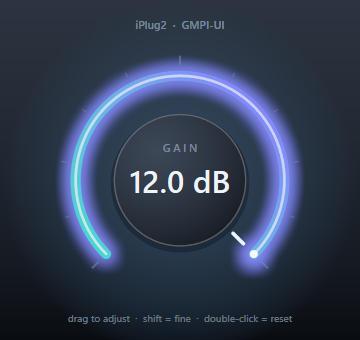
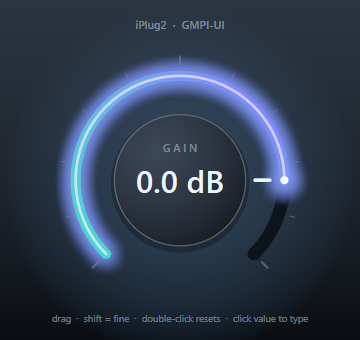
Type a value by clicking the readout
Clicking the number opens a native text field through GMPI-UI's
IDialogHost::createTextEdit. The view stays unit-agnostic: it hands the typed
string to the host, which parses it with IParam::StringToValue and pushes the
canonical formatting back, so "-6", "-6.5 dB" and nonsense all land somewhere
sane.

The edit callback is a member rather than heap-allocated - gmpi::sdk::
TextEditCallback is GMPI_REFCOUNT_NO_DELETE, so a shared_ptr to a new'd one
would leak.

diff --git a/src/GainView.h b/src/GainView.h
@@ -18,6 +18,10 @@ struct IKnobHost
   virtual void OnKnobGestureBegin() = 0;
   virtual void OnKnobValueChanged(double normalized) = 0;
   virtual void OnKnobGestureEnd() = 0;
+
+  // Typed into the readout, e.g. "-6.5 dB". The host owns the parsing, because
+  // it owns the units.
+  virtual void OnKnobTextEntered(const std::string& text) = 0;
 };
 
 namespace knob
@@ -51,6 +55,7 @@ struct Layout
   float arcRadius{};
   float bodyRadius{};
   float unit{}; // stroke widths and type sizes scale off this
+  Rect readoutRect{}; // drawn here, and clicked here to type a value
 
   explicit Layout(Rect b)
   {
@@ -61,8 +66,17 @@ struct Layout
     bodyRadius = arcRadius * 0.635f;
     unit = arcRadius / 104.0f;
     centre = {(b.left + b.right) * 0.5f, b.top + h * 0.53f};
+
+    const float halfWidth = bodyRadius * 0.98f;
+    readoutRect = {centre.x - halfWidth, centre.y - 22.0f * unit,
+                   centre.x + halfWidth, centre.y + 22.0f * unit};
   }
 };
+
+inline bool contains(Rect r, Point p)
+{
+  return p.x >= r.left && p.x < r.right && p.y >= r.top && p.y < r.bottom;
+}
 
 inline Point onCircle(Point centre, float radius, float degrees)
 {
@@ -96,21 +110,25 @@ public:
     mValue = std::clamp(normalized, 0.0, 1.0);
     mDisplay = display;
     mGlow.invalidate();
-
-    if (mDrawingHost)
-      mDrawingHost->invalidateRect(nullptr);
+    Invalidate();
   }
 
   // IDrawingClient / IInputClient (one override serves both)
   gmpi::ReturnCode setHost(gmpi::api::IUnknown* pHost) override
   {
+    // Any in-flight text edit refers to a window that is about to go away.
+    mTextEdit = {};
+    mEditing = false;
+
     mDrawingHost = {};
     mInputHost = {};
+    mDialogHost = {};
 
     if (pHost)
     {
       pHost->queryInterface(&gmpi::api::IDrawingHost::guid, mDrawingHost.put_void());
       pHost->queryInterface(&gmpi::api::IInputHost::guid, mInputHost.put_void());
+      pHost->queryInterface(&gmpi::api::IDialogHost::guid, mDialogHost.put_void());
     }
     return gmpi::ReturnCode::Ok;
   }
@@ -268,26 +286,39 @@ public:
         return format;
       };
 
-      const float halfWidth = layout.bodyRadius * 0.98f;
+      const Rect readoutRect = layout.readoutRect;
 
       auto label = centred(10.5f * unit, FontWeight::SemiBold);
       g.drawTextU("G A I N", label,
-                  {centre.x - halfWidth, centre.y - 42.0f * unit, centre.x + halfWidth, centre.y - 22.0f * unit},
+                  {readoutRect.left, centre.y - 42.0f * unit, readoutRect.right, readoutRect.top},
                   dimBrush);
 
-      auto readout = centred(31.0f * unit, FontWeight::SemiBold);
-      g.drawTextU(mDisplay, readout,
-                  {centre.x - halfWidth, centre.y - 22.0f * unit, centre.x + halfWidth, centre.y + 22.0f * unit},
-                  brightBrush);
+      // Hovering the readout tells you it is a text field.
+      if (mHoverReadout && !mEditing)
+      {
+        const RoundedRect field{readoutRect, 5.0f * unit, 5.0f * unit};
+        auto highlight = g.createSolidColorBrush(Color{1.0f, 1.0f, 1.0f, 0.09f});
+        g.fillRoundedRectangle(field, highlight);
+        auto outline = g.createSolidColorBrush(Color{1.0f, 1.0f, 1.0f, 0.16f});
+        g.drawRoundedRectangle(field, outline, 1.0f * unit);
+      }
+
+      // While the native edit box is up it covers this spot; drawing underneath
+      // it just shows through as a smudge on a partly-transparent field.
+      if (!mEditing)
+      {
+        auto readout = centred(31.0f * unit, FontWeight::SemiBold);
+        g.drawTextU(mDisplay, readout, readoutRect, brightBrush);
+      }
 
       auto title = centred(11.0f * unit, FontWeight::Medium);
       g.drawTextU("iPlug2  \xC2\xB7  GMPI-UI", title,
                   {mBounds.left, mBounds.top + 14.0f * unit, mBounds.right, mBounds.top + 34.0f * unit},
                   dimBrush);
 
-      auto hint = centred(10.0f * unit, FontWeight::Regular);
+      auto hint = centred(9.5f * unit, FontWeight::Regular);
       auto hintBrush = g.createSolidColorBrush(Color{textDim.r, textDim.g, textDim.b, 0.7f});
-      g.drawTextU("drag to adjust  \xC2\xB7  shift = fine  \xC2\xB7  double-click = reset", hint,
+      g.drawTextU("drag  \xC2\xB7  shift = fine  \xC2\xB7  double-click resets  \xC2\xB7  click value to type", hint,
                   {mBounds.left, mBounds.bottom - 32.0f * unit, mBounds.right, mBounds.bottom - 12.0f * unit},
                   hintBrush);
     }
@@ -296,12 +327,25 @@ public:
   }
 
   gmpi::ReturnCode hitTest(gmpi::drawing::Point, int32_t) override { return gmpi::ReturnCode::Ok; }
-  gmpi::ReturnCode setHover(bool) override { return gmpi::ReturnCode::Ok; }
+
+  gmpi::ReturnCode setHover(bool isMouseOverMe) override
+  {
+    if (!isMouseOverMe)
+      SetHoverReadout(false);
+
+    return gmpi::ReturnCode::Ok;
+  }
 
   gmpi::ReturnCode onPointerDown(gmpi::drawing::Point point, int32_t flags) override
   {
     if (0 == (flags & static_cast<int32_t>(gmpi::api::PointerFlags::FirstButton)))
       return gmpi::ReturnCode::Unhandled;
+
+    if (!mEditing && knob::contains(knob::Layout(mBounds).readoutRect, point))
+    {
+      BeginTextEdit();
+      return gmpi::ReturnCode::Handled;
+    }
 
     if (flags & static_cast<int32_t>(gmpi::api::PointerFlags::Double))
     {
@@ -325,7 +369,10 @@ public:
   gmpi::ReturnCode onPointerMove(gmpi::drawing::Point point, int32_t flags) override
   {
     if (!mDragging)
+    {
+      SetHoverReadout(!mEditing && knob::contains(knob::Layout(mBounds).readoutRect, point));
       return gmpi::ReturnCode::Unhandled;
+    }
 
     // Full-scale drag is roughly three knob diameters, so the feel stays the
     // same whatever size the editor is.
@@ -379,15 +426,78 @@ private:
   // 0 dB on a -60..+12 dB scale.
   static constexpr double kDefaultValue = 60.0 / 72.0;
 
+  void Invalidate()
+  {
+    if (mDrawingHost)
+      mDrawingHost->invalidateRect(nullptr);
+  }
+
+  void SetHoverReadout(bool hover)
+  {
+    if (hover == mHoverReadout)
+      return;
+
+    mHoverReadout = hover;
+    Invalidate();
+  }
+
+  void BeginTextEdit()
+  {
+    if (!mDialogHost)
+      return;
+
+    const knob::Layout layout(mBounds);
+
+    gmpi::shared_ptr<gmpi::api::IUnknown> unknown;
+    if (gmpi::ReturnCode::Ok != mDialogHost->createTextEdit(&layout.readoutRect, unknown.put()))
+      return;
+
+    mTextEdit = unknown.as<gmpi::api::ITextEdit>();
+    if (!mTextEdit)
+      return;
+
+    mTextEdit->setText(mDisplay.c_str());
+    mTextEdit->setTextSize(26.0f * layout.unit);
+    mTextEdit->setAlignment(static_cast<int32_t>(gmpi::drawing::TextAlignment::Center) |
+                            static_cast<int32_t>(gmpi::api::TextMultilineFlag::SingleLine));
+
+    // The callback outlives showAsync, so it has to be a member. It is
+    // GMPI_REFCOUNT_NO_DELETE, so pass its address rather than new'ing one.
+    mTextEditCallback.onSuccess = [this](const std::string& text) {
+      EndTextEdit();
+      if (!text.empty())
+        mHost.OnKnobTextEntered(text);
+    };
+    mTextEditCallback.onCancel = [this]() { EndTextEdit(); };
+
+    mEditing = true;
+    mHoverReadout = false;
+    Invalidate();
+
+    mTextEdit->showAsync(&mTextEditCallback);
+  }
+
+  void EndTextEdit()
+  {
+    mEditing = false;
+    mTextEdit = {};
+    Invalidate();
+  }
+
   IKnobHost& mHost;
   gmpi::shared_ptr<gmpi::api::IDrawingHost> mDrawingHost;
   gmpi::shared_ptr<gmpi::api::IInputHost> mInputHost;
+  gmpi::shared_ptr<gmpi::api::IDialogHost> mDialogHost;
+  gmpi::shared_ptr<gmpi::api::ITextEdit> mTextEdit;
+  gmpi::sdk::TextEditCallback mTextEditCallback;
 
   gmpi::drawing::Rect mBounds{};
   cachedBlur mGlow;
   double mValue{kDefaultValue};
   std::string mDisplay{"0.0 dB"};
 
+  bool mEditing{};
+  bool mHoverReadout{};
   bool mDragging{};
   float mDragStartY{};
   double mDragStartValue{};

diff --git a/src/IPlugGmpiGain.cpp b/src/IPlugGmpiGain.cpp
@@ -88,3 +88,20 @@ void IPlugGmpiGain::OnKnobGestureEnd()
 {
   EndInformHostOfParamChangeFromUI(kGain);
 }
+
+void IPlugGmpiGain::OnKnobTextEntered(const std::string& text)
+{
+  const IParam* param = GetParam(kGain);
+
+  // StringToValue understands the parameter's own units and clamps to range,
+  // so "-6", "-6.5 dB" and "nonsense" all land somewhere sane.
+  const double normalized = param->ToNormalized(param->StringToValue(text.c_str()));
+
+  BeginInformHostOfParamChangeFromUI(kGain);
+  SendParameterValueFromUI(kGain, normalized);
+  EndInformHostOfParamChangeFromUI(kGain);
+
+  // The typed text is not necessarily how the parameter formats itself, so
+  // push the canonical display string back to the view.
+  PushValueToView();
+}

diff --git a/src/IPlugGmpiGain.h b/src/IPlugGmpiGain.h
@@ -32,6 +32,7 @@ public:
   void OnKnobGestureBegin() override;
   void OnKnobValueChanged(double normalized) override;
   void OnKnobGestureEnd() override;
+  void OnKnobTextEntered(const std::string& text) override;
 
 private:
   void PushValueToView();

diff --git a/README.md b/README.md
@@ -58,6 +58,11 @@ GainView  ◀──────SetValue───────  OnParamChangeUI
 Because iPlug2 routes host automation through `OnParamChangeUI` too, automating
 the parameter from the DAW moves the knob with no extra code.
 
+Clicking the readout opens a native text field via GMPI-UI's
+`IDialogHost::createTextEdit`, and the typed string goes back through the same
+interface. The view does not parse it — iPlug2's `IParam::StringToValue` does,
+because the parameter owns its units.
+
 ## Notes on the drawing
 
 - The knob's halo is a real gaussian blur, not stacked translucent strokes: the
